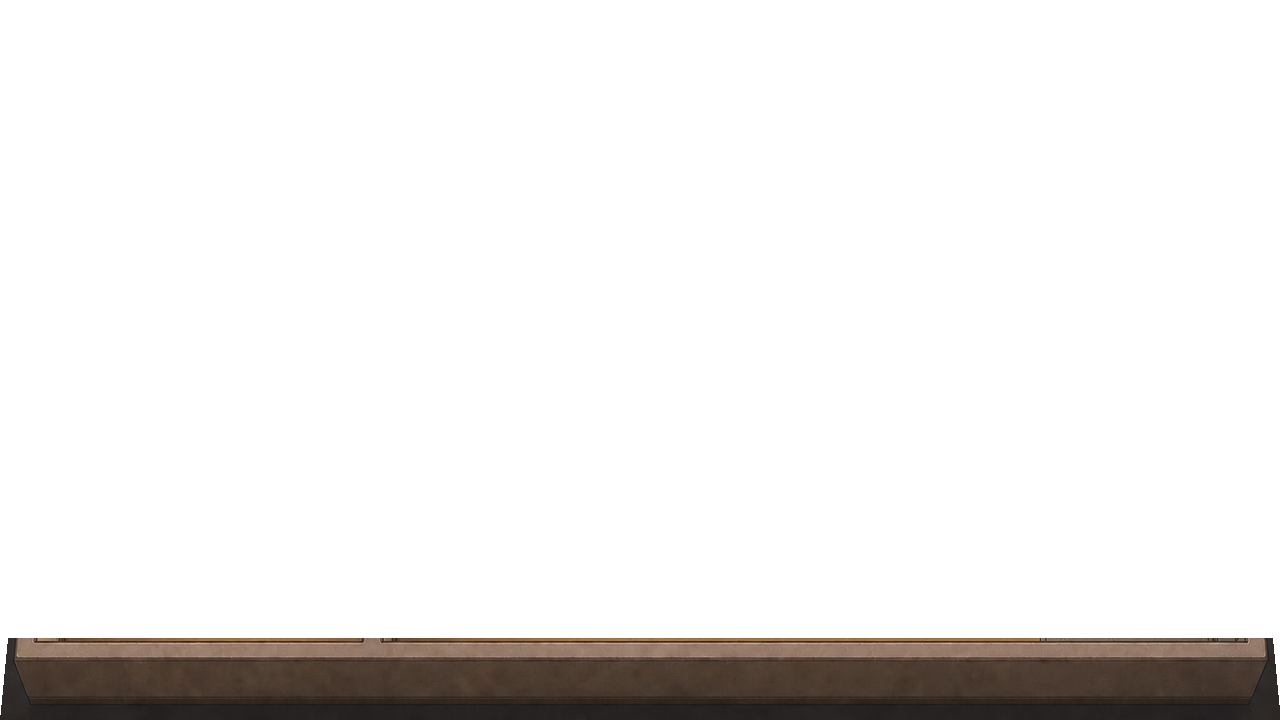
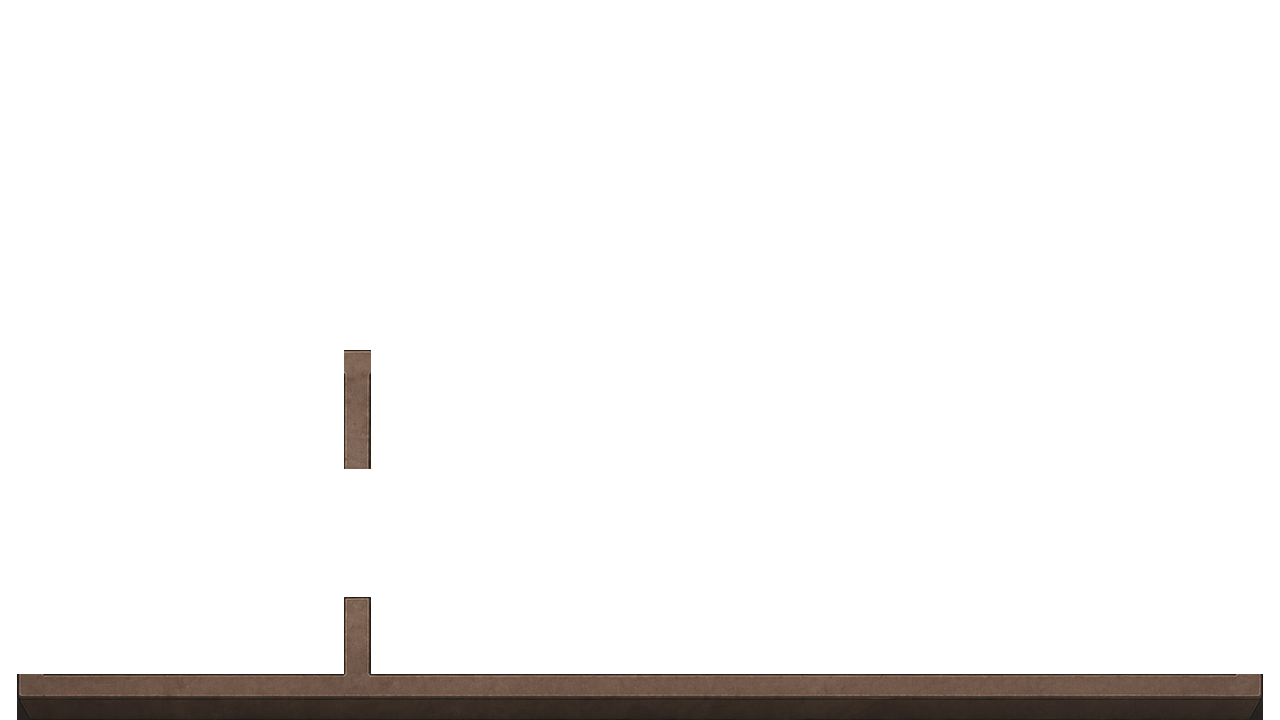
feat: update home scene orthogonal layout

Changed region(s): [[0.0, 0.825, 1.0, 1.0], [0.25, 0.4889, 0.3125, 0.6722]]

diff --git a/src/game/content/homeLayout.ts b/src/game/content/homeLayout.ts
@@ -14,7 +14,6 @@ export interface HomeArchitectureOverlay {
   key:
     | 'environment.home.partition_overlay'
     | 'environment.home.crosswall_overlay'
-    | 'environment.home.rightwall_overlay'
     | 'environment.home.frontwall_overlay';
   sortY: number;
 }
@@ -145,14 +144,15 @@ export const homeWalkBounds: MovementBounds = {
 };
 
 export const homeWallObstacles: readonly AxisAlignedRect[] = [
-  { x: 379, y: 20, width: 31, height: 263 },
-  { x: 370, y: 342, width: 34, height: 160 },
-  { x: 370, y: 502, width: 34, height: 140 },
-  { x: 812, y: 20, width: 30, height: 263 },
-  { x: 42, y: 342, width: 493, height: 68 },
-  { x: 680, y: 342, width: 552, height: 68 },
-  { x: 1182, y: 20, width: 66, height: 322 },
-  { x: 1204, y: 410, width: 44, height: 72 },
+  { x: 346, y: 20, width: 32, height: 238 },
+  { x: 346, y: 342, width: 34, height: 118 },
+  { x: 346, y: 596, width: 34, height: 46 },
+  { x: 812, y: 20, width: 32, height: 244 },
+  { x: 42, y: 342, width: 465, height: 68 },
+  { x: 697, y: 342, width: 531, height: 68 },
+  { x: 1212, y: 20, width: 36, height: 322 },
+  { x: 1212, y: 410, width: 36, height: 94 },
+  { x: 1212, y: 504, width: 36, height: 138 },
 ] as const;
 
 export const homeCollisionObstacles: readonly AxisAlignedRect[] = [
@@ -163,7 +163,6 @@ export const homeCollisionObstacles: readonly AxisAlignedRect[] = [
 export const homeArchitectureOverlays: readonly HomeArchitectureOverlay[] = [
   { key: 'environment.home.partition_overlay', sortY: 342 },
   { key: 'environment.home.crosswall_overlay', sortY: 410 },
-  { key: 'environment.home.rightwall_overlay', sortY: 635 },
   { key: 'environment.home.frontwall_overlay', sortY: 705 },
 ] as const;
 

diff --git a/src/game/assets/manifest.ts b/src/game/assets/manifest.ts
@@ -48,7 +48,7 @@ export const assetManifest = [
   {
     key: 'environment.home.background',
     type: 'image',
-    url: 'assets/environments/environment_home_v08.png',
+    url: 'assets/environments/environment_home_v10.png',
     chapter: 'home',
     preload: true,
   },
@@ -70,13 +70,6 @@ export const assetManifest = [
     key: 'environment.home.crosswall_overlay',
     type: 'image',
     url: 'assets/environments/environment_home_crosswall_overlay_v01.png',
-    chapter: 'home',
-    preload: true,
-  },
-  {
-    key: 'environment.home.rightwall_overlay',
-    type: 'image',
-    url: 'assets/environments/environment_home_rightwall_overlay_v01.png',
     chapter: 'home',
     preload: true,
   },

diff --git a/tests/e2e/home-scene.spec.ts b/tests/e2e/home-scene.spec.ts
@@ -69,9 +69,8 @@ test('renders the layered home and blocks the player at the bed footprint', asyn
   await setSavedPlayer(page, 1190, 560);
   await canvas.focus();
   for (let step = 0; step < 8; step += 1) await canvas.press('ArrowRight');
-  expect(Number(await app.getAttribute('data-player-x'))).toBeGreaterThan(1208);
-  expect(Number(await app.getAttribute('data-player-x'))).toBeLessThanOrEqual(1248);
+  expect(Number(await app.getAttribute('data-player-x'))).toBeLessThanOrEqual(1196);
   await expect(page.getByRole('button', { name: '与玄关门交互' })).toBeVisible();
-  await canvas.screenshot({ path: testInfo.outputPath('home-right-wall-door.png') });
+  await canvas.screenshot({ path: testInfo.outputPath('home-front-door-hotspot.png') });
   expect(browserErrors).toEqual([]);
 });

diff --git a/scripts/prepare_home_architecture_overlays.py b/scripts/prepare_home_architecture_overlays.py
@@ -13,7 +13,6 @@ def parse_args() -> argparse.Namespace:
     parser.add_argument("--input", required=True, type=Path)
     parser.add_argument("--partition-output", required=True, type=Path)
     parser.add_argument("--crosswall-output", required=True, type=Path)
-    parser.add_argument("--rightwall-output", required=True, type=Path)
     parser.add_argument("--frontwall-output", required=True, type=Path)
     return parser.parse_args()
 
@@ -37,41 +36,35 @@ def main() -> None:
     partition = masked_copy(
         source,
         [
-            [(370, 15), (418, 15), (418, 290), (370, 290)],
-            [(804, 15), (850, 15), (850, 290), (804, 290)],
+            [(343, 7), (379, 7), (379, 277), (343, 277)],
+            [(798, 7), (834, 7), (834, 277), (798, 277)],
         ],
     )
     crosswall = masked_copy(
         source,
         [
-            [(42, 337), (535, 337), (535, 425), (42, 425)],
-            [(680, 337), (1232, 337), (1232, 425), (680, 425)],
-        ],
-    )
-    rightwall = masked_copy(
-        source,
-        [
-            [(1200, 330), (1280, 330), (1280, 482), (1204, 482)],
-            [(1204, 482), (1248, 482), (1248, 520), (1216, 520)],
-            [(1240, 482), (1280, 482), (1280, 650), (1240, 650)],
+            [(44, 349), (508, 349), (508, 431), (44, 431)],
+            [(697, 349), (1235, 349), (1235, 431), (697, 431)],
         ],
     )
     frontwall = masked_copy(
         source,
-        [[(8, 638), (1272, 638), (1280, 720), (0, 720)]],
+        [
+            [(17, 674), (1262, 674), (1262, 720), (17, 720)],
+            [(344, 350), (370, 350), (370, 468), (344, 468)],
+            [(344, 597), (370, 597), (370, 674), (344, 674)],
+        ],
     )
 
     args.partition_output.parent.mkdir(parents=True, exist_ok=True)
     args.crosswall_output.parent.mkdir(parents=True, exist_ok=True)
-    args.rightwall_output.parent.mkdir(parents=True, exist_ok=True)
     args.frontwall_output.parent.mkdir(parents=True, exist_ok=True)
     partition.save(args.partition_output, format="PNG", optimize=True)
     crosswall.save(args.crosswall_output, format="PNG", optimize=True)
-    rightwall.save(args.rightwall_output, format="PNG", optimize=True)
     frontwall.save(args.frontwall_output, format="PNG", optimize=True)
     print(
         f"Wrote {args.partition_output}, {args.crosswall_output}, "
-        f"{args.rightwall_output}, and {args.frontwall_output}"
+        f"and {args.frontwall_output}"
     )
 
 

diff --git a/docs/ASSET_REGISTRY.md b/docs/ASSET_REGISTRY.md
@@ -38,25 +38,25 @@
 | furniture.home.kitchen_counter | 项目团队 | assets-source/art/furniture/furniture_home_kitchen_counter_v02_chromakey.png | public/assets/furniture/furniture_home_kitchen_counter_v02.png | 项目定制生成；OpenAI ImageGen；无第三方素材 | review | Codex 透明边缘与静态比例检查 | 2026-06-24 | 256×256；运行时显示 220×220；水槽与双灶台；仅垂直方向俯视 |
 | furniture.home.storage_cabinet | 项目团队 | assets-source/art/furniture/furniture_home_storage_cabinet_v02_chromakey.png | public/assets/furniture/furniture_home_storage_cabinet_v02.png | 项目定制生成；OpenAI ImageGen；无第三方素材 | review | Codex 透明边缘与静态比例检查 | 2026-06-24 | 256×256；运行时显示 160×160；低矮储物柜；仅垂直方向俯视 |
 | furniture.home.entry_console | 项目团队 | assets-source/art/furniture/furniture_home_entry_console_v02_chromakey.png | public/assets/furniture/furniture_home_entry_console_v02.png | 项目定制生成；OpenAI ImageGen；无第三方素材 | review | Codex 透明边缘与静态比例检查 | 2026-06-24 | 256×256；运行时显示 100×100，位于右下玄关地面左侧，蓝色钥匙碗放在桌面；窄玄关桌 |
-| furniture.home.front_door | 项目团队 | assets-source/art/furniture/furniture_home_front_door_v07.svg | public/assets/furniture/furniture_home_front_door_v07.png | 项目原创 SVG；无第三方素材 | superseded | 不进入 v08 运行时 | 2026-06-24 | 历史侧视门板候选；v08 出口只使用背景嵌墙门洞和 hotspot，家具 atlas 不再包含门板 |
+| furniture.home.front_door | 项目团队 | assets-source/art/furniture/furniture_home_front_door_v07.svg | public/assets/furniture/furniture_home_front_door_v07.png | 项目原创 SVG；无第三方素材 | superseded | 不进入 v10 运行时 | 2026-06-24 | 历史侧视门板候选；v10 出口只使用背景嵌墙门洞和 hotspot，家具 atlas 不再包含门板 |
 | furniture.home.atlas | 项目团队 | public/assets/furniture/furniture_home_* | public/assets/furniture/furniture_home_atlas_v08_7x256x256.png | 七件定制家具的机械打包；无新增第三方素材 | review | Codex 图集静态检查 | 2026-06-24 | 7×256×256 横向图集；frame 2 使用 sofa_v03；不包含门板；运行时尺寸统一来自 homeVisualSizes |
 | memory.rain.umbrella.illustration | 项目团队 | assets-source/art/memories/memory_rain_umbrella_v01.png | public/assets/memories/memory_rain_umbrella_v01.webp | 项目定制生成；OpenAI ImageGen；无第三方素材 | review | Codex 浏览器验收 | 2026-06-22 | 1152×768 WebP；雨站初遇对白期间显示；红伞为唯一高辨识暖色 |
 | memory.life.move.illustration | 项目团队 | assets-source/art/memories/memory_life_move_v01.png | public/assets/memories/memory_life_move_v01.webp | 项目定制生成；OpenAI ImageGen；无第三方素材 | review | Codex 浏览器验收 | 2026-06-22 | 1152×768 WebP；木梳归位后显示；纸箱、未装床架和背景红伞与脚本一致 |
 | memory.life.osmanthus.illustration | 项目团队 | assets-source/art/memories/memory_life_osmanthus_v01.png | public/assets/memories/memory_life_osmanthus_v01.webp | 项目定制生成；OpenAI ImageGen；无第三方素材 | review | Codex 浏览器验收 | 2026-06-22 | 1152×768 WebP；搪瓷杯归位后显示；桂花、泥土与杯子构成冗余线索 |
 | memory.life.cassette.illustration | 项目团队 | assets-source/art/memories/memory_life_cassette_v01.png | public/assets/memories/memory_life_cassette_v01.webp | 项目定制生成；OpenAI ImageGen；无第三方素材 | review | Codex 浏览器验收 | 2026-06-22 | 1152×768 WebP；录音带归位后显示；录音机双线圈、停电光源与纪念日蛋糕构成冗余线索 |
 | memory.ending.hand.illustration | 项目团队 | assets-source/art/memories/memory_ending_hand_v01.png | public/assets/memories/memory_ending_hand_v01.webp | 项目定制生成；OpenAI ImageGen；无第三方素材 | review | Codex 浏览器验收 | 2026-06-22 | 1024×512 WebP；完成牵手长按后显示；蓝灰袖主动覆上旧绿袖等待掌心 |
-| environment.home.layout_reference | 用户提供 | assets-source/art/references/environment_home_layout_reference_v01.png | 不进入运行时 | 用户提供的构图与质感参考；公开使用权待核验 | review | Codex 输入图检查 | 2026-06-24 | 1672×941；仅作为 v08 镜位、墙体厚度、窗户和材质参考 |
-| environment.home.background | 项目团队 | assets-source/art/environments/environment_home_v08_generated.png | public/assets/environments/environment_home_v08.png | 内置 OpenAI ImageGen；以上述用户参考图派生；公开使用权待核验 | review | Codex 1280×720 静态合成检查 | 2026-06-24 | 扩大卧室/客厅/厨房通道；右下玄关地面与嵌墙出口；仅中性环境光，不烘焙直射阳光 |
+| environment.home.layout_reference | 用户提供 | assets-source/art/references/environment_home_layout_reference_v01.png | 不进入运行时 | 用户提供的构图与质感参考；公开使用权待核验 | review | Codex 输入图检查 | 2026-06-24 | 1672×941；作为 v08 镜位、墙体厚度、窗户和材质参考 |
+| environment.home.orthogonal_layout_guide | 项目团队 | assets-source/art/references/environment_home_orthogonal_layout_guide_v02.svg | assets-source/art/references/environment_home_orthogonal_layout_guide_v02.png | 项目原创 SVG；无第三方素材 | review | Codex 静态查看 | 2026-06-25 | 1280×720；无蓝色标记的正交墙体布局参考；仅用于生成 v10，不进入运行时 |
+| environment.home.background | 项目团队 | assets-source/art/environments/environment_home_v10_generated.png | public/assets/environments/environment_home_v10.png | 用户外部调用 ImageGen 后提供；由 v08 质感与正交布局参考派生；公开使用权待核验 | review | Codex 1280×720 静态查看 | 2026-06-25 | 正交墙体边界；扩大上方通道；恢复左下储物间到中央走廊通道；右下玄关地面与嵌墙出口；仅中性环境光，不烘焙直射阳光 |
 | environment.home.sunlight_overlay | 项目团队 | assets-source/art/environments/environment_home_sunlight_overlay_v01.svg | public/assets/environments/environment_home_sunlight_overlay_v01.png | 项目原创 SVG；无第三方素材 | review | Codex 透明通道与静态合成检查 | 2026-06-24 | 1280×720 透明 PNG；阳光束、透视亮斑、窗棂影子与反射光斑；运行时位于背景和家具之间 |
-| environment.home.partition_overlay | 项目团队 | environment_home_v08.png + scripts/prepare_home_architecture_overlays.py | public/assets/environments/environment_home_partition_overlay_v01.png | 从项目背景机械提取；无新增素材 | review | Codex 透明通道与静态合成检查 | 2026-06-24 | 上方两道隔墙透明遮挡层，sortY=342 |
-| environment.home.crosswall_overlay | 项目团队 | environment_home_v08.png + scripts/prepare_home_architecture_overlays.py | public/assets/environments/environment_home_crosswall_overlay_v01.png | 从项目背景机械提取；无新增素材 | review | Codex 透明通道与静态合成检查 | 2026-06-24 | 中墙透明遮挡层，sortY=410 |
-| environment.home.rightwall_overlay | 项目团队 | environment_home_v08.png + scripts/prepare_home_architecture_overlays.py | public/assets/environments/environment_home_rightwall_overlay_v01.png | 从项目背景机械提取；无新增素材 | review | Codex 透明通道与静态合成检查 | 2026-06-24 | 右侧墙与嵌墙门框透明遮挡层，sortY=635 |
-| environment.home.frontwall_overlay | 项目团队 | environment_home_v08.png + scripts/prepare_home_architecture_overlays.py | public/assets/environments/environment_home_frontwall_overlay_v01.png | 从项目背景机械提取；无新增素材 | review | Codex 透明通道与静态合成检查 | 2026-06-24 | 前墙透明遮挡层，sortY=705 |
+| environment.home.partition_overlay | 项目团队 | environment_home_v10.png + scripts/prepare_home_architecture_overlays.py | public/assets/environments/environment_home_partition_overlay_v01.png | 从项目背景机械提取；无新增素材 | review | Codex 透明通道静态查看 | 2026-06-25 | 上方两道隔墙透明遮挡层，sortY=342 |
+| environment.home.crosswall_overlay | 项目团队 | environment_home_v10.png + scripts/prepare_home_architecture_overlays.py | public/assets/environments/environment_home_crosswall_overlay_v01.png | 从项目背景机械提取；无新增素材 | review | Codex 透明通道静态查看 | 2026-06-25 | 中墙透明遮挡层，sortY=410 |
+| environment.home.frontwall_overlay | 项目团队 | environment_home_v10.png + scripts/prepare_home_architecture_overlays.py | public/assets/environments/environment_home_frontwall_overlay_v01.png | 从项目背景机械提取；无新增素材 | review | Codex 透明通道静态查看 | 2026-06-25 | 前墙与左下竖墙段透明遮挡层，sortY=705 |
 | environment.rain.background | 项目团队 | assets-source/art/environments/environment_rain_v01.svg | public/assets/environments/environment_rain_v01.png | 项目原创 SVG；无第三方素材 | review | Codex 浏览器验收 | 2026-06-22 | 1280×720；斜向站台、积水、石板与钟表铺雨棚 |
 | environment.life.background | 项目团队 | assets-source/art/environments/environment_life_v01.svg | public/assets/environments/environment_life_v01.png | 项目原创 SVG；无第三方素材 | review | Codex 浏览器验收 | 2026-06-22 | 1280×720；三段生活空间叠影、纸箱、桂花窗与录音机 |
 | environment.return.background | 项目团队 | assets-source/art/environments/environment_return_v01.svg | public/assets/environments/environment_return_v01.png | 项目原创 SVG；无第三方素材 | review | Codex 浏览器验收 | 2026-06-22 | 1280×720；重复十字长廊、四向地砖箭头与暗红伞痕 |
 | environment.ending.background | 项目团队 | assets-source/art/environments/environment_ending_v01.svg | public/assets/environments/environment_ending_v01.png | 项目原创 SVG；无第三方素材 | review | Codex 浏览器验收 | 2026-06-22 | 1280×720；回到现实清晨、暖白留白、桌上两碗热面 |
-| map.home | 项目团队 | public/assets/data/map.home.json | 同左 | 原创 Tiled 对象数据 | review | Codex 四浏览器 E2E 与场景截图检查 | 2026-06-24 | Tiled 对象层提供出生区、稳定 ID 与 16 个家具/墙体碰撞矩形；已验证横穿上方开口、进入 x>1208 的右侧门槛；门 hotspot 位于 `(1225, 560)` |
+| map.home | 项目团队 | public/assets/data/map.home.json | 同左 | 原创 Tiled 对象数据 | review | Codex 静态数据同步；本轮未跑自动化测试 | 2026-06-25 | Tiled 对象层提供出生区、稳定 ID 与 17 个家具/墙体碰撞矩形；v10 扩大上方开口并拆分左下竖墙以恢复储物间通道；右侧门洞只保留室内侧 hotspot，不要求走入门槛；门 hotspot 位于 `(1225, 560)` |
 | map.rain_station | 项目团队 | public/assets/data/map.rain_station.json | 同左 | 原创 Tiled 对象数据 | review | Codex 浏览器验收 | 2026-06-22 | Tiled 对象层提供 2→4→5、伞标与出口；正式背景已接入 |
 | map.shared_life | 项目团队 | public/assets/data/map.shared_life.json | 同左 | 原创 Tiled 对象数据 | review | Codex 浏览器验收 | 2026-06-22 | Tiled 对象层提供照片、物件和三槽位；正式背景已接入 |
 | map.return_corridor | 项目团队 | public/assets/data/map.return_corridor.json | 同左 | 原创 Tiled 对象数据 | review | Codex 浏览器验收 | 2026-06-22 | Tiled 对象层提供四向出口；背景箭头与世界方向一致 |
@@ -114,15 +114,15 @@
 - 运行时处理：`remove_chroma_key.py` 生成透明原稿；`scripts/prepare_prop_asset.py` 裁切并归一化到 128×128 透明画布。Phaser 通过 manifest key 与 Tiled 实体 ID 绑定，拾取后随实体隐藏。
 - 当前结论：透明边缘沿用既有检查结果；本轮已按住宅比例标尺完成相框、日记、钥匙碗和眼镜盒的静态尺寸复核，并通过四浏览器场景、HUD、交互提示和减少动态效果回归。外部美术审核前保持 `review`。
 
-### furniture.home.* v01/v02/v03 / decor.home.* v01 / environment.home.background v08
+### furniture.home.* v01/v02/v03 / decor.home.* v01 / environment.home.background v10
 
-- 生成方式：其余家具和三件非交互装饰沿用既有内置 OpenAI ImageGen `stylized-concept` 素材；sofa_v03 由用户在外部生成后提供，使用 Codex 整理的约 35° 斜俯视提示词。v08 建筑壳层使用内置 ImageGen，在 v07 基础上扩大卧室—客厅与客厅—厨房通道，移除厨房旧门洞，并在右下玄关建立服从右墙透视的门洞、门框和门槛。
+- 生成方式：其余家具和三件非交互装饰沿用既有内置 OpenAI ImageGen `stylized-concept` 素材；sofa_v03 由用户在外部生成后提供，使用 Codex 整理的约 35° 斜俯视提示词。v10 建筑壳层由用户外部调用 ImageGen 后提供，使用 v08 质感和无蓝色正交布局参考重制，要求墙体平面边界保持水平或垂直，扩大卧室—客厅与客厅—厨房通道，恢复左下储物间通道，并在右下玄关建立嵌墙门洞、门框和门槛。
 - 视角约束：建筑壳层使用 30°～35° 轻斜俯视；家具可依据摆放关系采用少量水平转角，以落地面一致、空间关系合理为准。当前入户门不显示门板，门洞属于右侧墙体结构；玩家靠近门口 hotspot 后进入开门对白与章节过渡。
 - 分层约束：背景只保留地板、墙体、门窗洞口和中性环境光；窗外阳光、窗棂影子和光斑使用独立透明 overlay。床、边桌、沙发、木桌、厨房台柜、储物柜、玄关桌和三件非交互装饰均为透明 PNG，由 Phaser 按坐标组合。照片、日记、眼镜盒和钥匙碗继续使用独立交互实体。
 - 运行时请求：七件独立运行时 PNG 机械打包为 `furniture.home.atlas` 横向图集，Scene 以 frame 选择家具；源文件、透明成品和稳定家具身份不合并。
 - 色键处理：普通木质家具使用纯 `#00ff00`，含旧绿色柜边的厨房台柜使用纯 `#ff00ff`；统一经 `remove_chroma_key.py` 软遮罩和去色溢出，再由 `prepare_prop_asset.py` 归一化到 256×256。
 - 装饰生成提示：`30–35 degree light-oblique top-down`、`restrained hand-painted gouache`、`warm lived-in 1990s Chinese apartment`、纯 `#00ff00` 色键背景；分别限制为旧条纹地毯、布拖鞋和厨房固定杂物组合，无文字、无发光、无关键交互道具。
-- 当前结论：v08 底图、右下玄关嵌墙出口、阳光/建筑 overlay、sofa_v03、厨房杂物与玄关物件位置已完成素材渲染、1280×720 静态合成和四浏览器场景检查。E2E 已验证角色横穿上方开口、家具前后遮挡、进入 x>1208 的右侧门槛及门框遮挡；`lint`、39 项单元/集成测试、生产构建与 34 项 E2E 均通过。参考图与外部生成沙发的公开使用权及外部美术审核完成前保持 `review`。
+- 当前结论：v10 底图、右下玄关嵌墙出口、阳光/建筑 overlay 已完成资产渲染和 1280×720 静态查看；上方通道和左下通道已在 `homeLayout.ts` 与 Tiled `collision` 对象层同步。右侧门不再使用独立 `rightwall_overlay`，只从室内侧 hotspot 触发交互。按本轮用户要求尚未运行 `lint`、`test`、`build` 或 `test:e2e`，v10 的浏览器通行、遮挡排序和交互热区仍待下一轮自动化验证。参考图、外部生成沙发和外部生成 v10 底图的公开使用权及外部美术审核完成前保持 `review`。
 
 ### memory.life.move.illustration
 

diff --git a/docs/LEVEL_DESIGN.md b/docs/LEVEL_DESIGN.md
@@ -82,11 +82,11 @@
 
 储物间仅作为背景，不可进入，防止首章探索范围膨胀。
 
-住宅建筑壳层 v08 使用完整斜俯视剖面和有厚度的墙体，同时保持卧室、客厅、厨房、封闭储物间、走廊和右下玄关的空间关系。卧室—客厅与客厅—厨房的开口已扩大，角色脚部碰撞体通过时两侧仍有余量；中央走廊开口继续保持最宽。背景层包含地板、墙体、房间开口、右上四格窗、右下玄关地面，以及嵌入玄关右侧墙的门洞、门框和门槛；窗外阳光束、厨房地面亮斑与窗棂影子由独立 `environment.home.sunlight_overlay` 绘制。入户门当前只作为出口 hotspot，不渲染独立门板 sprite。
+住宅建筑壳层 v10 在保留 v08 材质和墙体厚度的基础上改为正交墙体边界：主要外墙、隔墙、中墙和右侧门洞在画布平面上保持水平或垂直，便于和轴对齐碰撞矩形一致，同时保持卧室、客厅、厨房、封闭储物间、走廊和右下玄关的空间关系。卧室—客厅与客厅—厨房的上方开口已加高，左下储物间与中央走廊之间保留真实通道；中央走廊开口继续保持最宽。背景层包含地板、墙体、房间开口、右上四格窗、右下玄关地面，以及嵌入玄关右侧墙的门洞、门框和门槛；窗外阳光束、厨房地面亮斑与窗棂影子由独立 `environment.home.sunlight_overlay` 绘制。入户门当前只作为出口 hotspot，不渲染独立门板 sprite。
 
-住宅家具底座与墙体写入 `collision` 对象层，角色使用脚部小矩形碰撞，不允许进入家具底座；碰撞框只覆盖按 `homeVisualSizes` 校准后的落地脚印，不覆盖家具整张图片。v08 上方两道隔墙碰撞在 y=283 前结束，中墙从 y=342 开始；中墙碰撞区为 y=342–410，中央通道为 x=535–680。两道上方隔墙、中墙、右侧门框/墙面和前墙的可见像素分别由透明 architecture overlay 按 y=342、410、635 与 705 参与排序；住宅角色脚部可见像素与碰撞体底边对齐，穿过上方开口时身体由隔墙遮挡，不再压在墙面上。
+住宅家具底座与墙体写入 `collision` 对象层，角色使用脚部小矩形碰撞，不允许进入家具底座；碰撞框只覆盖按 `homeVisualSizes` 校准后的落地脚印，不覆盖家具整张图片。v10 上方两道隔墙碰撞分别在 y=258、y=264 前结束；中墙从 y=342 开始，中墙碰撞区为 y=342–410，中央通道为 x=507–697。左下竖墙拆为上下两段，y=460–596 为储物间与中央走廊之间的通行开口。两道上方隔墙、中墙、前墙和左下竖墙段的可见像素由透明 architecture overlay 按 y=342、410 与 705 参与排序；住宅角色脚部可见像素与碰撞体底边对齐，穿过开口时身体由墙体遮挡，不再压在墙面上。
 
-右下出口的通行扩展只在门洞高度生效：住宅全局步行上限延伸至 x=1248，但右侧外墙以 y=20–342 和 y=410–482 两段碰撞封闭，实际可进入门槛为约 x=1204–1248、y=482–635。这样角色可走入嵌墙门洞，同时不能穿过厨房外墙或门洞上方墙段。
+右下出口只作为室内侧交互点，不要求角色走进门洞：右侧外墙以 y=20–342、y=410–504 和 y=504–642 三段碰撞封闭，玩家在门内侧靠近 `(1225, 560)` 的 hotspot 即可触发出门交互。这样避免右墙门洞遮挡层与角色排序复杂化，同时仍保留嵌墙门框的视觉结构。
 
 非交互装饰层在床尾放置旧条纹地毯与布拖鞋，在厨房台面放置搪瓷暖水瓶、调味罐和旧砧板；墙面可保留少量擦痕。上述内容不得加入交互实体、提示或任务条件，也不得替代床边照片、红线日记、眼镜盒和蓝色钥匙碗。
 
@@ -98,7 +98,7 @@
 | 日记 | (610, 282) | entity.home.journal |
 | 眼镜盒 | (700, 510) | entity.home.glasses_case |
 | 蓝色钥匙碗 | (1080, 502)，右下玄关桌面 | entity.home.key_bowl |
-| 玄关门 hotspot | (1225, 560)，钥匙碗右侧墙内门槛 | entity.home.front_door |
+| 玄关门 hotspot | (1225, 560)，钥匙碗右侧墙内侧 | entity.home.front_door |
 | 卧室相机区 | x1–10, y1–8 | camera.home.bedroom |
 | 客厅相机区 | x11–22, y1–10 | camera.home.living |
 | 厨房相机区 | x23–30, y1–8 | camera.home.kitchen |

diff --git a/docs/TECHNICAL_DESIGN.md b/docs/TECHNICAL_DESIGN.md
@@ -217,7 +217,7 @@ stateDiagram-v2
 - 挂载当前 Tilemap、角色、相机、音频和表现层；
 - 以章节背景资产表现正式环境候选，Tiled 对象层继续作为出生点、交互物和稳定 ID 的权威来源；
 - 交互物以环境资产中的物件轮廓为视觉主体；Scene 只挂载透明热区、悬停标签和极弱的小点反馈，不创建常驻圆形按钮；
-- 住宅建筑壳层与家具分离：背景只绘制地板、墙体、洞口和固定光照，静态家具通过 manifest key 与场景坐标表组合，交互家具继续绑定稳定实体 ID；住宅壳层水平方向正对场景，仅在垂直方向采用约 35° 俯角；家具和小型交互物可采用符合摆放关系的自然角度，但不得出现互相冲突的落地面，也不得依赖发光或闪烁建立识别；入户门固定在右侧边；
+- 住宅建筑壳层与家具分离：背景只绘制地板、墙体、洞口和固定光照，静态家具通过 manifest key 与场景坐标表组合，交互家具继续绑定稳定实体 ID；住宅壳层采用正交墙体平面，主要墙体、门洞和通道边界在画布平面上保持水平或垂直，仅用墙体立面、墙顶厚度和接触阴影表现轻微俯视；家具和小型交互物可采用符合摆放关系的自然角度，但不得出现互相冲突的落地面，也不得依赖发光或闪烁建立识别；入户门固定在右侧边；
 - 指针点击与确认键共用近距离交互入口，Scene 只发送实体 ID，不在表现层判断交互结果；
 - 将 Phaser 键盘输入送入 InputMapper；
 - 读取 GameStore 快照更新角色、物件、特效和声音；
@@ -283,8 +283,8 @@ type InputAction =
 - `src/game/content/homeLayout.ts` 保存住宅统一视觉尺寸、家具脚印、墙体障碍、步行边界和排序线；Phaser Scene 引用 `homeVisualSizes`，不再为同一物件维护第二套显示尺寸。Tiled `collision` 对象层保持同一份家具脚印作者数据，后续 Content Loader 可由其生成纯数据 CollisionMap。
 - MovementSystem 使用与 Phaser 无关的 `moveWithCollisions`，根据 CollisionMap、角色脚部碰撞体和当前 InputAction 分轴计算最终位置；阻挡大步长穿透，同时允许沿家具边缘滑动。
 - Phaser Sprite 只跟随最终位置，不参与碰撞判定；本项目不启用 Arcade Physics 作为玩法真值。
-- 住宅表现按脚底/家具底座 Y 值动态排序；交互小物继承承载家具的排序线。`environment.home.sunlight_overlay` 以低深度覆盖背景但位于家具下方；`environment.home.partition_overlay`、`crosswall_overlay`、`rightwall_overlay` 与 `frontwall_overlay` 从背景像素机械提取，分别按上方隔墙、中墙、右侧门框/墙面和前墙排序线重绘。背景、光照 overlay、非交互装饰、家具、建筑遮挡 overlay、人物与交互物均是可分别销毁的视图对象，不进入存档状态；住宅人物可使用纯视图缩放，但脚部可见像素必须与领域碰撞体底边对齐，领域坐标和碰撞体本身不随缩放改变。
-- `entity.home.front_door` 是位于右下玄关门槛 `(1225, 560)` 的纯交互 hotspot，不绑定家具 atlas frame；门洞、门框和门槛属于背景建筑结构。住宅步行边界只在门洞高度通过分段右墙碰撞扩展到 x=1248。当前交互直接进入开门对白和章节切换，只有未来出现可见开关门演出时才新增独立门板 sprite。
+- 住宅表现按脚底/家具底座 Y 值动态排序；交互小物继承承载家具的排序线。`environment.home.sunlight_overlay` 以低深度覆盖背景但位于家具下方；`environment.home.partition_overlay`、`crosswall_overlay` 与 `frontwall_overlay` 从背景像素机械提取，分别按上方隔墙、中墙、前墙与左下竖墙段排序线重绘。背景、光照 overlay、非交互装饰、家具、建筑遮挡 overlay、人物与交互物均是可分别销毁的视图对象，不进入存档状态；住宅人物可使用纯视图缩放，但脚部可见像素必须与领域碰撞体底边对齐，领域坐标和碰撞体本身不随缩放改变。
+- `entity.home.front_door` 是位于右下玄关门内侧 `(1225, 560)` 的纯交互 hotspot，不绑定家具 atlas frame；门洞、门框和门槛属于背景建筑结构。住宅角色不需要走进右墙门洞，右侧外墙和门框由碰撞矩形封闭，玩家在室内侧靠近 hotspot 即可触发开门对白和章节切换。只有未来出现可见开关门演出时才新增独立门板 sprite。
 - 每次位置更新写入领域层坐标；DOM UI 通过纯选择器把坐标映射为“当前最近可用实体 ID”，仅在该 ID 变化时重绘情境交互提示。
 - 按键释放或当前帧没有移动动作时，SceneBridge 发送 `STOP_MOVING`；领域层保留最后朝向并清除 `player.moving`，精灵只据此切回对应方向锚点帧。
 - 恢复存档时先校验坐标是否落在当前导航区域。

diff --git a/docs/ART_BIBLE.md b/docs/ART_BIBLE.md
@@ -109,11 +109,11 @@
 
 清晨住宅中的床边合影、红线日记、蓝色钥匙碗和眼镜盒使用独立透明 PNG，不烘焙进环境背景；运行时由 Tiled 稳定 ID 定位，拾取后随实体视图一起隐藏。
 
-清晨住宅 v08 使用完整斜俯视剖面建筑壳层：墙顶、内墙立面、前侧面和柔和接触阴影共同建立厚度，房间仍保持卧室、客厅、厨房、封闭储物间、走廊与右下玄关的清晰关系。卧室—客厅、客厅—厨房的开口需要容纳 32 px 角色脚部碰撞体并留有明显余量，不能只剩墙缝；中央走廊开口继续保持最宽。右上窗户使用带木框和十字窗棂的四格玻璃结构，不使用可能被误认成 HUD 进度条的胶囊形长条。家具保持 30°～35° 轻斜俯视和一致落地面，茶几与柜体之间保留连续可行走通道。
+清晨住宅 v10 使用基于 v08 质感重制的正交墙体剖面建筑壳层：墙顶、内墙立面、前侧面和柔和接触阴影共同建立厚度，但主要外墙、隔墙、中墙和门洞边界在画布平面上必须保持水平或垂直，便于和轴对齐碰撞矩形一致。房间仍保持卧室、客厅、厨房、封闭储物间、走廊与右下玄关的清晰关系。卧室—客厅、客厅—厨房的上方开口比 v08 更高，左下储物间与中央走廊之间保留真实通道；中央走廊开口继续保持最宽。右上窗户使用带木框和十字窗棂的四格玻璃结构，不使用可能被误认成 HUD 进度条的胶囊形长条。家具保持 30°～35° 轻斜俯视和一致落地面，茶几与柜体之间保留连续可行走通道。
 
 `environment.home.sunlight_overlay` 独立保存窗外阳光束、厨房地面的透视亮斑、窗棂影子和少量反射光斑，运行时置于背景之上、家具之下。overlay 使用静态透明 PNG，不包含交互提示；后续可以单独调整透明度、替换时段或在低扰动模式中关闭。上方两道隔墙、中墙、右侧门框/墙面和前墙另由从背景机械提取的透明遮挡 overlay 在人物/家具排序层中重绘，保证墙体视觉和遮挡像素完全一致；角色通过上方开口或进入右侧门槛时，身体不得完整压在墙面之上。
 
-床、边桌、沙发、木桌、厨房台柜、储物柜和玄关桌均为独立透明家具素材，由 Phaser 按场景坐标组合。沙发必须使用垂直约 35° 的轻斜俯视：两块靠背正面、短纵深坐垫、前沿木底座和前脚均需可见，不能退化成近乎完全俯视的四块软垫。入户门不是家具：v08 背景在右下玄关的右侧墙体中完整绘制墙、门洞、门框和门槛，并服从右侧墙面的斜俯视透视；当前出口交互不播放开门动画，因此不绘制独立门板 sprite，只由门口 hotspot 触发。如果以后加入开关门演出，门板必须作为贴合该门框透视的独立 sprite，不能画成正对镜头的完整矩形或贴在画面边缘的竖条。渲染按脚底/家具底座的 Y 值排序：人物在底座排序线后方时被家具遮挡，越过排序线后覆盖家具；水平墙前脸可作为独立遮挡段参与同一排序。
+床、边桌、沙发、木桌、厨房台柜、储物柜和玄关桌均为独立透明家具素材，由 Phaser 按场景坐标组合。沙发必须使用垂直约 35° 的轻斜俯视：两块靠背正面、短纵深坐垫、前沿木底座和前脚均需可见，不能退化成近乎完全俯视的四块软垫。入户门不是家具：v10 背景在右下玄关的右侧墙体中完整绘制墙、门洞、门框和门槛；当前出口交互不播放开门动画，也不要求角色走入门洞，因此不绘制独立门板 sprite，不制作右墙遮挡 overlay，只由室内侧门口 hotspot 触发。如果以后加入开关门演出，门板必须作为贴合该门框透视的独立 sprite，不能画成正对镜头的完整矩形或贴在画面边缘的竖条。渲染按脚底/家具底座的 Y 值排序：人物在底座排序线后方时被家具遮挡，越过排序线后覆盖家具；水平墙前脸可作为独立遮挡段参与同一排序。
 
 非交互生活细节可使用独立装饰层：床边旧条纹地毯、布拖鞋、厨房搪瓷暖水瓶/调味罐/旧砧板，以及背景中的轻微墙面擦痕。厨房杂物固定放在水槽与煤气炉之间的空余台面，不覆盖炉头。装饰不得发光、闪烁或伪装为谜题线索，不得包含照片、日记、眼镜盒、钥匙盘等关键交互道具。
 